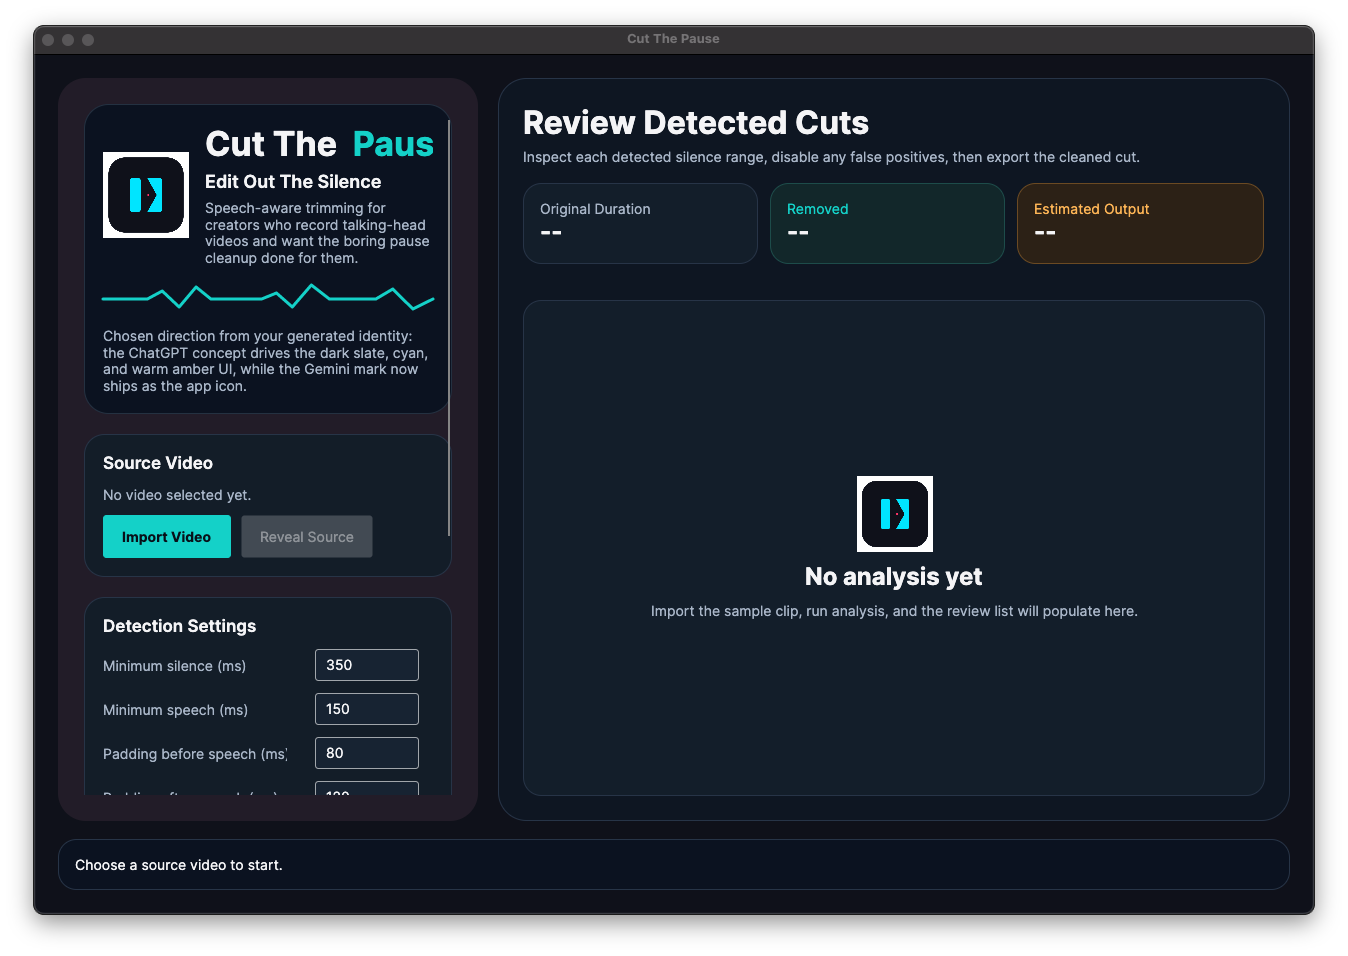
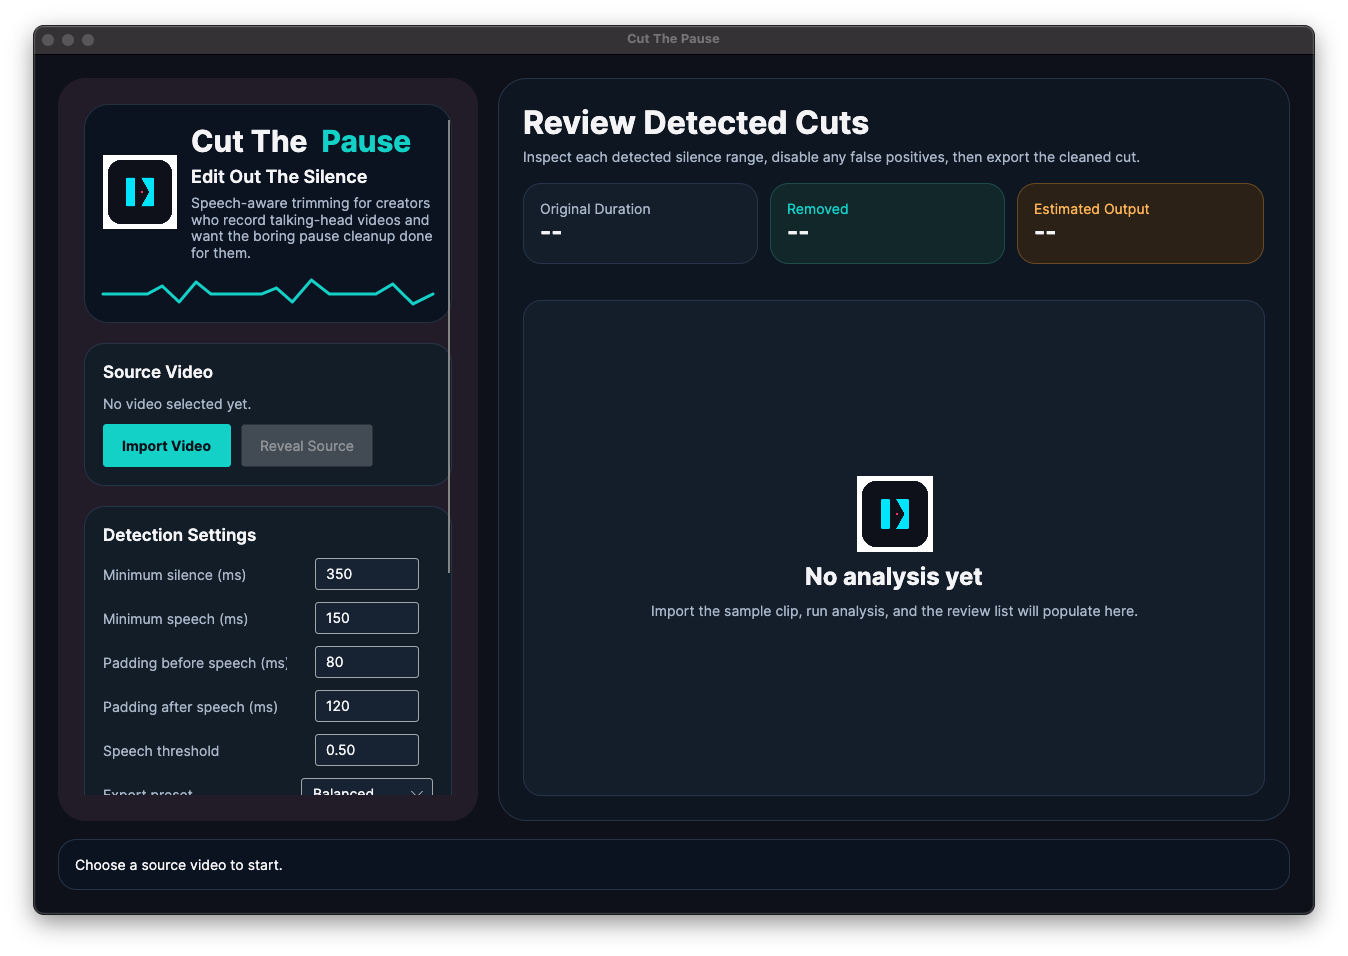
Polish export completion flow and refresh screenshots

diff --git a/src/CutThePause.App/ViewModels/MainWindowViewModel.cs b/src/CutThePause.App/ViewModels/MainWindowViewModel.cs
@@ -25,10 +25,14 @@ public sealed class MainWindowViewModel : ViewModelBase
     private string _removedDurationText = "--";
     private string _outputDurationText = "--";
     private bool _isExporting;
+    private bool _isExportCompleted;
     private double _exportProgressValue;
     private string _exportProgressPercentText = "0%";
     private string _exportProgressStageText = "Waiting to start export.";
     private string _exportProgressDetailText = "No export in progress.";
+    private string _exportOverlayTitle = "Export In Progress";
+    private string _exportOverlaySubtitle = "Cut The Pause is rendering your trimmed timeline now.";
+    private string _exportedOutputPath = string.Empty;
 
     public MainWindowViewModel(VideoWorkflowService workflowService)
     {
@@ -60,6 +64,20 @@ public sealed class MainWindowViewModel : ViewModelBase
         get => _isExporting;
         private set => SetProperty(ref _isExporting, value);
     }
+
+    public bool IsExportCompleted
+    {
+        get => _isExportCompleted;
+        private set
+        {
+            if (SetProperty(ref _isExportCompleted, value))
+            {
+                OnPropertyChanged(nameof(ShowExportOverlay));
+            }
+        }
+    }
+
+    public bool ShowExportOverlay => IsExporting || IsExportCompleted;
 
     public bool HasCuts => CutCandidates.Count > 0;
 
@@ -169,6 +187,24 @@ public sealed class MainWindowViewModel : ViewModelBase
         private set => SetProperty(ref _exportProgressDetailText, value);
     }
 
+    public string ExportOverlayTitle
+    {
+        get => _exportOverlayTitle;
+        private set => SetProperty(ref _exportOverlayTitle, value);
+    }
+
+    public string ExportOverlaySubtitle
+    {
+        get => _exportOverlaySubtitle;
+        private set => SetProperty(ref _exportOverlaySubtitle, value);
+    }
+
+    public string ExportedOutputPath
+    {
+        get => _exportedOutputPath;
+        private set => SetProperty(ref _exportedOutputPath, value);
+    }
+
     public void SetInputPath(string path)
     {
         _inputPath = path;
@@ -243,6 +279,7 @@ public sealed class MainWindowViewModel : ViewModelBase
             BeginExportPresentation(request);
             await _workflowService.ExportAsync(request, progress, CancellationToken.None);
             StatusMessage = $"Export complete: {_outputPath}";
+            CompleteExportPresentation(request);
         }
         catch (Exception exception)
         {
@@ -251,9 +288,53 @@ public sealed class MainWindowViewModel : ViewModelBase
         }
         finally
         {
-            EndExportPresentation();
+            if (!IsExportCompleted)
+            {
+                EndExportPresentation();
+            }
+
             SetBusy(false, StatusMessage);
         }
+    }
+
+    public async Task LoadShowcaseAsync(string inputPath, bool analyze)
+    {
+        if (string.IsNullOrWhiteSpace(inputPath) || !File.Exists(inputPath))
+        {
+            return;
+        }
+
+        SetInputPath(inputPath);
+
+        if (analyze)
+        {
+            await AnalyzeAsync();
+        }
+    }
+
+    public void DismissExportOverlay()
+    {
+        IsExporting = false;
+        IsExportCompleted = false;
+    }
+
+    public void RevealExportedFile()
+    {
+        if (string.IsNullOrWhiteSpace(_outputPath) || !File.Exists(_outputPath))
+        {
+            return;
+        }
+
+        if (OperatingSystem.IsMacOS())
+        {
+            var process = new ProcessStartInfo("open");
+            process.ArgumentList.Add("-R");
+            process.ArgumentList.Add(_outputPath);
+            Process.Start(process);
+            return;
+        }
+
+        OpenInputFile();
     }
 
     public void ResetReview()
@@ -395,15 +476,35 @@ public sealed class MainWindowViewModel : ViewModelBase
     private void BeginExportPresentation(ExportRequest request)
     {
         IsExporting = true;
+        IsExportCompleted = false;
         ExportProgressValue = 0d;
         ExportProgressPercentText = "0%";
+        ExportOverlayTitle = "Export In Progress";
+        ExportOverlaySubtitle = "Cut The Pause is rendering your trimmed timeline now.";
         ExportProgressStageText = "Preparing export...";
         ExportProgressDetailText = $"Target: {Path.GetExtension(request.OutputPath).ToLowerInvariant()}";
+        ExportedOutputPath = request.OutputPath;
+        OnPropertyChanged(nameof(ShowExportOverlay));
+    }
+
+    private void CompleteExportPresentation(ExportRequest request)
+    {
+        IsExporting = false;
+        IsExportCompleted = true;
+        ExportProgressValue = 100d;
+        ExportProgressPercentText = "100%";
+        ExportOverlayTitle = "Export Complete";
+        ExportOverlaySubtitle = "Your trimmed video is ready. Review the path below or reveal it in Finder.";
+        ExportProgressStageText = "Render finished successfully.";
+        ExportProgressDetailText = request.OutputPath;
+        ExportedOutputPath = request.OutputPath;
     }
 
     private void EndExportPresentation()
     {
         IsExporting = false;
+        IsExportCompleted = false;
+        OnPropertyChanged(nameof(ShowExportOverlay));
     }
 
     private void OnExportProgressReported(VideoExportProgress progress)

diff --git a/src/CutThePause.App/App.axaml.cs b/src/CutThePause.App/App.axaml.cs
@@ -1,7 +1,9 @@
 using Avalonia;
 using Avalonia.Controls.ApplicationLifetimes;
 using Avalonia.Markup.Xaml;
+using Avalonia.Threading;
 using CutThePause.App.Services;
+using CutThePause.App.ViewModels;
 
 namespace CutThePause.App;
 
@@ -13,9 +15,38 @@ public partial class App : Application
     {
         if (ApplicationLifetime is IClassicDesktopStyleApplicationLifetime desktop)
         {
-            desktop.MainWindow = AppBootstrapper.CreateMainWindow();
+            var mainWindow = AppBootstrapper.CreateMainWindow();
+            desktop.MainWindow = mainWindow;
+            _ = TryStartShowcaseAsync(mainWindow);
         }
 
         base.OnFrameworkInitializationCompleted();
+    }
+
+    private static async Task TryStartShowcaseAsync(MainWindow window)
+    {
+        var inputPath = ResolveArgumentValue("--showcase-input");
+        var shouldAnalyze = Program.StartupArguments.Contains("--showcase-analyzed", StringComparer.OrdinalIgnoreCase);
+
+        if (string.IsNullOrWhiteSpace(inputPath) || window.DataContext is not MainWindowViewModel viewModel)
+        {
+            return;
+        }
+
+        Dispatcher.UIThread.Post(async () => await viewModel.LoadShowcaseAsync(inputPath, shouldAnalyze), DispatcherPriority.Background);
+        await Task.CompletedTask;
+    }
+
+    private static string? ResolveArgumentValue(string option)
+    {
+        for (var index = 0; index < Program.StartupArguments.Count - 1; index++)
+        {
+            if (Program.StartupArguments[index].Equals(option, StringComparison.OrdinalIgnoreCase))
+            {
+                return Program.StartupArguments[index + 1];
+            }
+        }
+
+        return null;
     }
 }

diff --git a/src/CutThePause.App/Program.cs b/src/CutThePause.App/Program.cs
@@ -3,9 +3,14 @@ namespace CutThePause.App;
 
 internal sealed class Program
 {
+    internal static IReadOnlyList<string> StartupArguments { get; private set; } = Array.Empty<string>();
+
     [STAThread]
-    public static void Main(string[] args) =>
+    public static void Main(string[] args)
+    {
+        StartupArguments = args;
         BuildAvaloniaApp().StartWithClassicDesktopLifetime(args);
+    }
 
     public static AppBuilder BuildAvaloniaApp() =>
         AppBuilder.Configure<App>()

diff --git a/src/CutThePause.App/MainWindow.axaml.cs b/src/CutThePause.App/MainWindow.axaml.cs
@@ -70,4 +70,8 @@ public partial class MainWindow : Window
     private void OnResetClick(object? sender, RoutedEventArgs e) => ViewModel.ResetReview();
 
     private void OnOpenSourceClick(object? sender, RoutedEventArgs e) => ViewModel.OpenInputFile();
+
+    private void OnDismissExportOverlayClick(object? sender, RoutedEventArgs e) => ViewModel.DismissExportOverlay();
+
+    private void OnRevealExportedFileClick(object? sender, RoutedEventArgs e) => ViewModel.RevealExportedFile();
 }

diff --git a/README.md b/README.md
@@ -4,7 +4,20 @@ Cut The Pause is a mac-first desktop app for solo creators who are tired of manu
 
 ![Cut The Pause app window](docs/images/app-overview.png)
 
+![Cut The Pause analyzed review](docs/images/analyzed-review.png)
+
+## Showcase
+
+- Desktop app overview:
+  - the current macOS build with the updated left sidebar layout
+- Analyzed video review:
+  - the real sample clip after silence detection, with cut candidates ready to toggle before export
+- Visual identity board:
+  - the agreed brand direction that informs the app colors, icon, and README presentation
+
 ## Visual Identity
+
+![Cut The Pause visual identity board](docs/images/visual-identity-board.png)
 
 - The product direction is dark slate, electric cyan, and warm amber.
 - The in-app UI follows the stronger ChatGPT concept board: timeline rhythm, pause removal, and creator-tool clarity.
